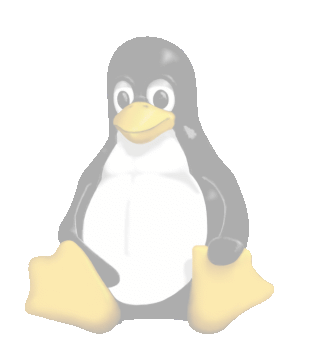
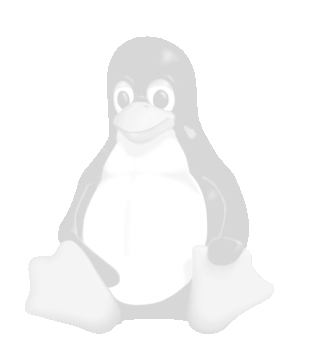
Finished index.html through step 4. Made some background changes to style.css. Added a different image for the background.

Changed region(s): [[0.0612, 0.0917, 0.8563, 0.9472]]

diff --git a/homework/ubuntu-kernel-howto/index.html b/homework/ubuntu-kernel-howto/index.html
@@ -35,6 +35,7 @@
         <li><span class="bash">make</span></li>
         <li><span class="bash">gcc</span></li>
         <li><span class="bash">dkpg</span></li>
+        <li><span class="bash">gedit</span></li>
       </ol>
     </li>
     <li>The <span class="bash">fakeroot</span> package</li>
@@ -135,5 +136,89 @@
     RAM allotted.
     <img src="http://sywh.freeforums.org/images/smilies/icon_cry.gif" />
   </p>
+  
+  <h2>Step 3: Install the newly built packages</h2>
+  <p>
+    Once the kernel has finished building, <span class="bash">cd</span> up to
+    the directory above the root of the
+    <span class="bash">ubuntu-oneiric</span> repo (that is,
+    <span class="bash">~/git-repos</span> if you've been following along). You
+    should be able to see the build product: 2 .deb files, one beginning with
+    <span class="bash">linux-headers</span> and the other beginning with
+    <span class="bash">linux-image</span>. As a derivative of the Debian
+    distribution of
+    <a href="http://www.youtube.com/watch?&v=kZlOCHYu1Vk#t=170s">Linux</a>,
+    Ubuntu uses the <a href="http://en.wikipedia.org/wiki/Dpkg">Debian package
+    management system</a> to handle distribution and installation of software
+    packages, in this case the image and headers of your newly built Linux
+    kernel. To install the kernel, use the following command:
+  </p>
+  
+  <pre>
+    sudo dpkg -i *.deb
+  </pre>
+  
+  <p>
+    Once the kernel packages finish installing successfully, move them
+    somewhere for safe keeping&mdash;you'll want them out of the way when you
+    build and install future kernels.
+  </p>
+  
+  <h2>Step 4: Configure GRUB</h2>
+  <p>
+    Ubuntu uses <a href="https://help.ubuntu.com/community/Grub2">GRUB 2</a>
+    to boot the kernel and load the operating system. As a system can have any
+    number of kernels from which it can choose to load (yours now has at least
+    two!), GRUB 2 must be configured to load the newly compiled kernel. First,
+    though, check the version of GRUB that you have with the following command:
+  </p>
+  
+  <pre>
+    grub-install -v
+  </pre>
+  
+  <p>
+    The program should respond with something like:
+  </p>
+  
+  <pre>
+    grub-install (GRUB) 1.99-12ubuntu5
+  </pre>
+  
+  <p>
+    As long as yours is at least 1.98, you're in good shape; otherwise, get
+    yourself a new version, as the following instructions won't make any sense!
+    (Yes, GRUB 2 technically started at GRUB 1.98. The biggest critical
+    difference from a user standpoint is the configuration process.) First,
+    open the GRUB 2 configuration file in Gedit 
+    (<a href="http://xkcd.com/378/">or whatever, it's up to you</a>)
+    with the following command:
+  </p>
+  
+  <pre>
+    sudo gedit /etc/default/grub
+  </pre>
+  
+  <p>
+    On line 7 or thereabouts, you should find an uncommented (that is, the one
+    without a # character in front of it) option that says
+    <span class="bash">GRUB_DEFAULT</span>. Assuming you appended the string
+    <span class="bash">-test</span> when you build the kernel, change that
+    option to:
+  </p>
+  
+  <pre>
+    GRUB_DEFAULT="Ubuntu, with Linux 3.0.22-rowehelloworld2+"
+  </pre>
+  
+  <p>
+    Once you've brought that in, save and quit Gedit. To make the new
+    configuration official, call the following command:
+  </p>
+  
+  <pre>
+    sudo update-grub
+  </pre>
+
 </body>
 </html>

diff --git a/homework/ubuntu-kernel-howto/style.css b/homework/ubuntu-kernel-howto/style.css
@@ -8,7 +8,7 @@ html
 {
   background-color: #333333;
   background-image: url('tux.png');
-  background-position: right top;
+  background-position: right bottom;
   background-attachment: fixed;
   background-repeat: no-repeat;
 }
